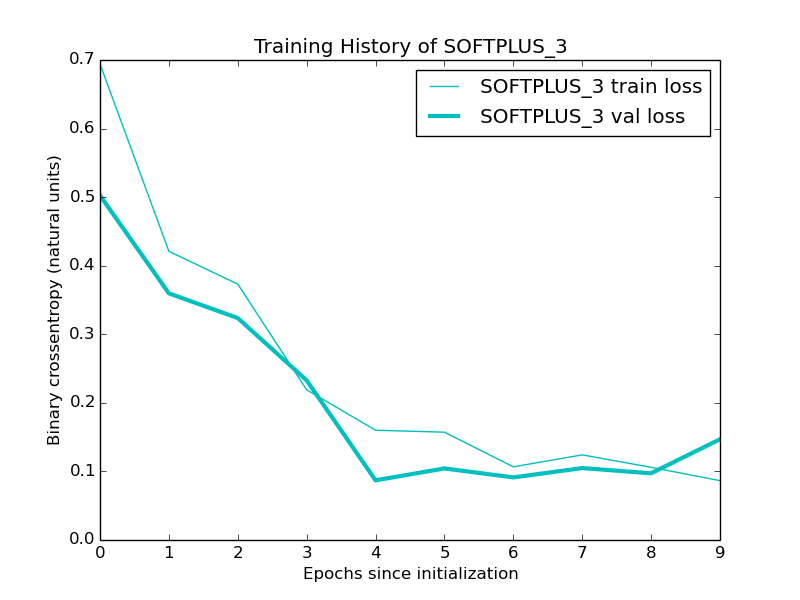
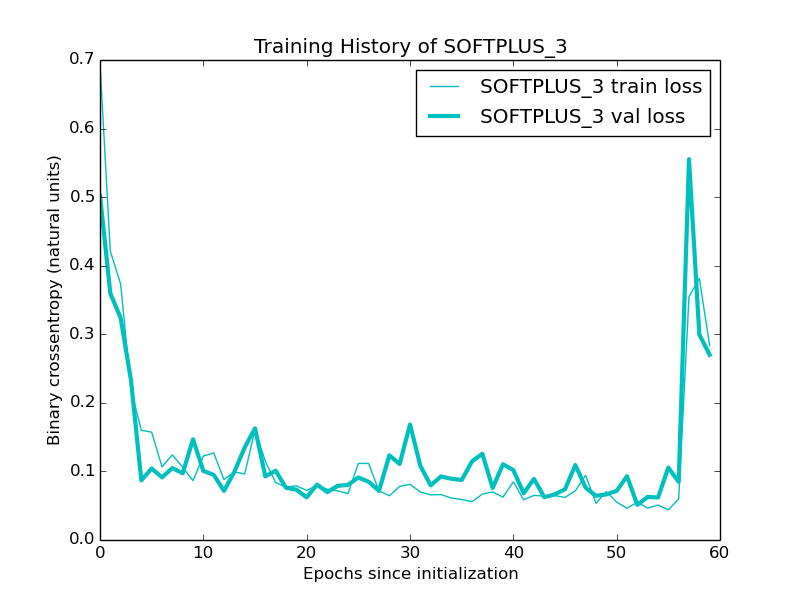
SQUEEZE_RES nearly outperforms SHALLOW_RES

diff --git a/model/make_model.py b/model/make_model.py
@@ -87,13 +87,13 @@ def make_shallow_res(input_shape=(64,64,3)):
     y = Dense(1, activation='sigmoid')(h1)
     return Model(input=x, output=y)
 
-def make_res(dim, ker, poolker, depth=2):
+def make_res(dim, ker, poolker, depth=2, activation='relu'):
     def res(in_layer):
         a = in_layer
         for d in range(depth):
             c = Convolution2D(dim, ker, ker, border_mode='same', init='zero')(a)
             b = BatchNormalization()(c)
-            a = Activation('relu')(b)
+            a = Activation(activation)(b)
         s = merge([in_layer, a], mode='sum')
         m = MaxPooling2D((poolker, poolker))(s)
         return m
@@ -125,15 +125,35 @@ def make_res_2(input_shape=(64,64,3)):
     return Model(input=x, output=y)
 
 @compile_classifier 
+def make_squeeze_res_old(input_shape=(64,64,3)):
+    ''' Return model with one resnet block followed by two dense layers.
+    '''
+    x = Input(shape=input_shape) 
+    c0 = Convolution2D(64, 4, 4, subsample=(4, 4), activation='softplus', border_mode='same')(x)
+    c1 = Convolution2D(32, 3, 3, subsample=(2, 2), activation='softplus', border_mode='same')(c0)
+    c2 = Convolution2D(16, 3, 3, subsample=(2, 2), activation='softplus', border_mode='same')(c1)
+    f = Flatten()(c2)
+    y = make_dense(dims=[256, 32, 1], activation='sigmoid')(f)
+    return Model(input=x, output=y)
+
+@compile_classifier 
 def make_squeeze_res(input_shape=(64,64,3)):
     ''' Return model with one resnet block followed by two dense layers.
     '''
     x = Input(shape=input_shape) 
-    m = MaxPooling2D((4, 4))(x)
-    c = Convolution2D(32, 3, 3, activation='softplus')(m)
-    r0 = make_res(dim=32, ker=3, depth=2, poolker=2)(c) 
-    f = Flatten()(r1)
-    y = make_dense(dims=[256, 64, 1], activation='sigmoid')(f)
+    c = Convolution2D(8, 4, 4, subsample=(4, 4), border_mode='same')(x)
+
+    c1 = Convolution2D(8, 3, 3, border_mode='same')(c)
+    b1 = BatchNormalization()(c1)
+    a1 = Activation('softplus')(b1)
+    c2 = Convolution2D(8, 3, 3, border_mode='same')(a1)
+    b2 = BatchNormalization()(c2)
+    a2 = Activation('softplus')(b2)
+    s0 = merge([c, a2], mode='sum')
+    m1 = MaxPooling2D((3, 3))(s0)
+
+    f = Flatten()(c2)
+    y = make_dense(dims=[256, 32, 1], activation='sigmoid')(f)
     return Model(input=x, output=y)
 
 
